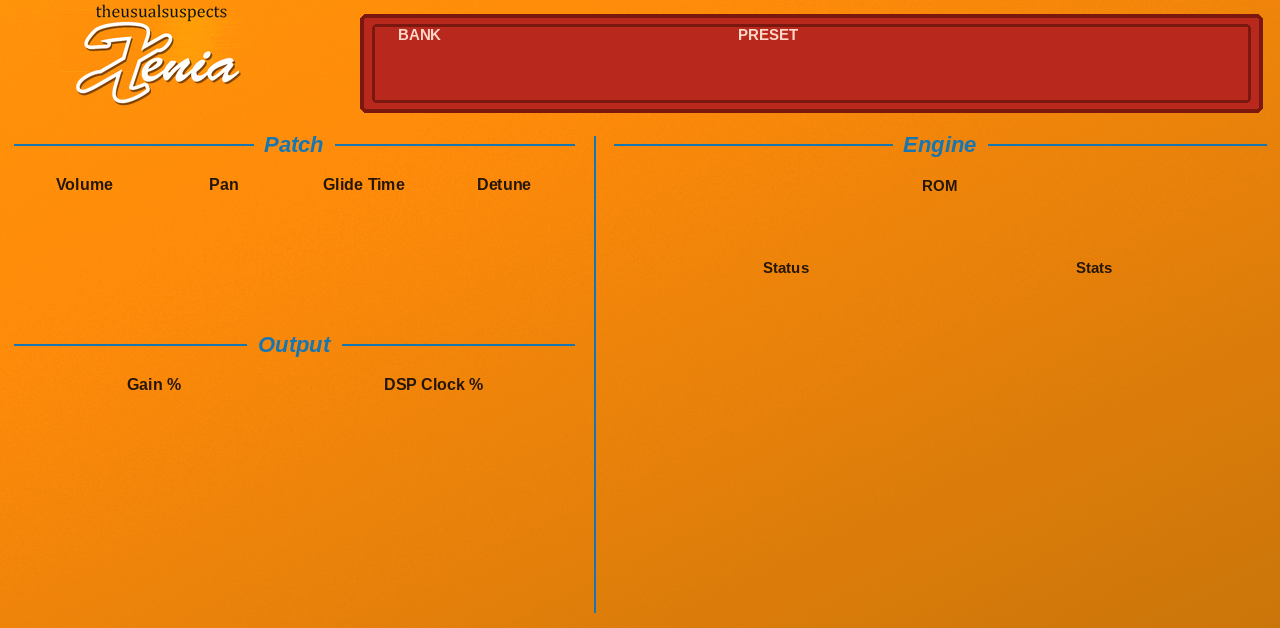
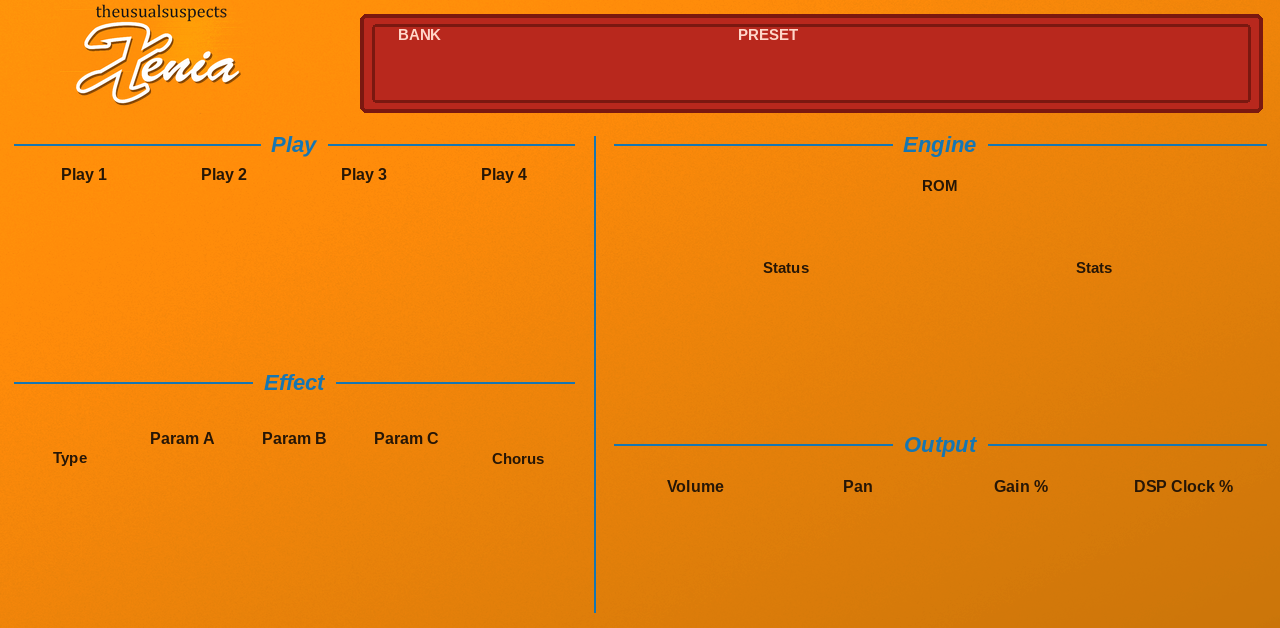
Skin: PLAY page with the four play knobs, effect and output; Amp Envelope beside the Filter Envelope; Arpeggiator folded into MIX & ARP (10 tabs); Q-Link sets regrouped, spacing refined
Claude-Session: https://claude.ai/code/session_01NnBRfCftY3vdpsy8azUhpq

diff --git a/tools/make_skin.py b/tools/make_skin.py
@@ -173,19 +173,24 @@ def header(page, tab_title):
 
 
 # ---------------------------------------------------------------- PLAY
-p = Page("PLAY", ["preset", "bank_index", "-", "-", "AmpVolume", "Pan", "GlideTime", "Detune", "gain", "dsp_clock", "-", "-"])
+p = Page("PLAY", ["play_v1", "play_v2", "play_v3", "play_v4", "AmpVolume", "Pan", "gain", "dsp_clock", "EffectParamA", "EffectParamB", "EffectParamC", "-"])
 header(p, "PLAY")
-p.heading(14, 130, 560, "Patch")
-row(p, 14, 574, 232, [("knob", "AmpVolume", "Volume"), ("knob", "Pan", "Pan"), ("knob", "GlideTime", "Glide Time"), ("knob", "Detune", "Detune")])
-p.heading(14, 330, 560, "Output")
-row(p, 14, 574, 432, [("knob", "gain", "Gain %"), ("knob", "dsp_clock", "DSP Clock %")])
+p.heading(14, 130, 560, "Play")
+for n, cx in enumerate((84, 224, 364, 504), 1):
+    p.knob(cx, 222, "play_v%d" % n, "Play %d" % n)
+    p.popup(cx, 320, "play%d" % n, "", 126)
+p.heading(14, 368, 560, "Effect")
+row(p, 14, 574, 486, [("popup", "EffectType", "Type", 110), ("knob", "EffectParamA", "Param A"), ("knob", "EffectParamB", "Param B"), ("knob", "EffectParamC", "Param C"),
+                      ("toggle", "ChorusEnabled", "Chorus")])
 p.vline(594, 136, 612)
 p.heading(614, 130, 652, "Engine")
 p.readout(940, 214, "rom_name", "ROM", 600)
 p.readout(786, 296, "loading_status", "Status", 296)
 p.readout(1094, 296, "engine_stats", "Stats", 296)
-p.button(786, 400, "all_notes_off", "PANIC")
-p.button(1094, 400, "init_patch", "INIT PATCH")
+p.button(786, 378, "all_notes_off", "PANIC")
+p.button(1094, 378, "init_patch", "INIT PATCH")
+p.heading(614, 430, 652, "Output")
+row(p, 614, 1266, 534, [("knob", "AmpVolume", "Volume"), ("knob", "Pan", "Pan"), ("knob", "gain", "Gain %"), ("knob", "dsp_clock", "DSP Clock %")])
 p.done()
 
 # ---------------------------------------------------------------- BANKS
@@ -222,10 +227,11 @@ row(p, 8, 1272, 500, [("popup", "Wave", "Wavetable", 260, 118), ("popup", "Alias
                       ("popup", "Clipping", "Clipping", 150), ("popup", "Accuracy", "Accuracy", 150)])
 p.done()
 
-# ---------------------------------------------------------------- MIXER / AMP
-p = Page("MIX & AMP", ["MixW1", "MixW2", "MixRingMod", "MixNoise", "MixExternal", "-", "-", "-",
-                       "AmpVolume", "AmpVelocity", "AmpKeytrack", "Pan", "PanKeytrack", "DePan", "-", "-"],
-         ("Env & Voice", ["AmpEnvAttack", "AmpEnvDecay", "AmpEnvSustain", "AmpEnvRelease", "GlideTime", "Detune", "-", "-"]))
+# ---------------------------------------------------------------- MIX & ARP (mixer, amplifier, glide, voice, arpeggiator)
+p = Page("MIX & ARP", ["MixW1", "MixW2", "MixRingMod", "MixNoise", "MixExternal", "AmpVolume", "AmpVelocity", "AmpKeytrack",
+                       "Pan", "PanKeytrack", "DePan", "-"],
+         ("Voice", ["GlideTime", "Detune", "-", "-"]),
+         ("Arp", ["ArpTempo", "ArpRange", "ArpUserPatternLength", "-"]))
 p.heading(8, 4, 626, "Mixer")
 row(p, 8, 634, 92, [("knob", "MixW1", "Wave 1"), ("knob", "MixW2", "Wave 2"), ("knob", "MixRingMod", "Ring Mod"), ("knob", "MixNoise", "Noise"), ("knob", "MixExternal", "Ext Input")])
 p.vline(646, 10, 400)
@@ -236,25 +242,31 @@ p.heading(8, 190, 626, "Glide")
 row(p, 8, 634, 278, [("toggle", "GlideEnabled", "Glide"), ("popup", "GlideType", "Type", 130), ("popup", "GlideMode", "Mode", 130), ("knob", "GlideTime", "Time")])
 p.heading(658, 190, 614, "Voice")
 row(p, 658, 1272, 278, [("popup", "AllocationMode", "Allocation", 130), ("popup", "Assignment", "Assignment", 130), ("knob", "Detune", "Detune")])
-p.heading(8, 380, 1264, "Amp Envelope")
-row(p, 8, 1272, 490, [("popup", "AmpEnvTrigger", "Trigger", 150), ("knob", "AmpEnvAttack", "Attack"), ("knob", "AmpEnvDecay", "Decay"), ("knob", "AmpEnvSustain", "Sustain"),
-                      ("knob", "AmpEnvRelease", "Release")])
+p.heading(8, 380, 1264, "Arpeggiator")
+row(p, 8, 1272, 490, [("popup", "ArpMode", "Mode", 112), ("popup", "ArpClock", "Clock", 112), ("popup", "ArpPattern", "Pattern", 112), ("popup", "ArpDirection", "Direction", 112),
+                      ("popup", "ArpNoteOrder", "Note Order", 112), ("popup", "ArpVelocity", "Velocity", 112), ("knob", "ArpTempo", "Tempo"), ("knob", "ArpRange", "Range"),
+                      ("knob", "ArpUserPatternLength", "User Length"), ("toggle", "ArpReset", "Reset")])
 p.done()
 
 # ---------------------------------------------------------------- FILTER
 p = Page("FILTER", ["F1Cutoff", "F1Resonance", "F1KeyTrack", "F1EnvAmount", "F1EnvVelAmount", "F1Extra", "-", "-", "F2Cutoff", "F2KeyTrack", "-", "-",
-                    "F1EnvAttack", "F1EnvDecay", "F1EnvSustain", "F1EnvRelease"])
+                    "F1EnvAttack", "F1EnvDecay", "F1EnvSustain", "F1EnvRelease"],
+         ("Amp Env", ["AmpEnvAttack", "AmpEnvDecay", "AmpEnvSustain", "AmpEnvRelease"]))
 p.heading(8, 4, 904, "Filter 1")
 row(p, 8, 912, 190, [("knob", "F1Cutoff", "Cutoff"), ("knob", "F1Resonance", "Resonance"), ("knob", "F1KeyTrack", "Keytrack"), ("knob", "F1EnvAmount", "Env Amt"),
                      ("knob", "F1EnvVelAmount", "Vel Amt"), ("knob", "F1Extra", "Extra")])
 p.popup(460, 76, "F1Type", "Type 1", 330)
-p.vline(930, 10, 410)
+p.vline(930, 10, 296)
 p.heading(948, 4, 324, "Filter 2")
 p.popup(1110, 76, "F2Type", "Type 2", 250)
 row(p, 948, 1272, 190, [("knob", "F2Cutoff", "Cutoff"), ("knob", "F2KeyTrack", "Keytrack")])
-p.heading(8, 300, 1264, "Filter Envelope")
-row(p, 8, 1272, 420, [("popup", "F1EnvTrigger", "Trigger", 150), ("knob", "F1EnvAttack", "Attack"), ("knob", "F1EnvDecay", "Decay"), ("knob", "F1EnvSustain", "Sustain"),
-                      ("knob", "F1EnvRelease", "Release")])
+p.heading(8, 340, 624, "Filter Envelope")
+row(p, 8, 632, 470, [("popup", "F1EnvTrigger", "Trigger", 100), ("knob", "F1EnvAttack", "Attack"), ("knob", "F1EnvDecay", "Decay"), ("knob", "F1EnvSustain", "Sustain"),
+                     ("knob", "F1EnvRelease", "Release")])
+p.vline(640, 346, 612)
+p.heading(648, 340, 624, "Amp Envelope")
+row(p, 648, 1272, 470, [("popup", "AmpEnvTrigger", "Trigger", 100), ("knob", "AmpEnvAttack", "Attack"), ("knob", "AmpEnvDecay", "Decay"), ("knob", "AmpEnvSustain", "Sustain"),
+                        ("knob", "AmpEnvRelease", "Release")])
 p.done()
 
 # ---------------------------------------------------------------- ENV
@@ -275,16 +287,16 @@ p.done()
 p = Page("WAVE ENV", ["WaveEnvTime1", "WaveEnvLevel1", "WaveEnvTime2", "WaveEnvLevel2", "WaveEnvTime3", "WaveEnvLevel3", "WaveEnvTime4", "WaveEnvLevel4",
                       "WaveEnvTime5", "WaveEnvLevel5", "WaveEnvTime6", "WaveEnvLevel6", "WaveEnvTime7", "WaveEnvLevel7", "WaveEnvTime8", "WaveEnvLevel8"])
 p.heading(8, 4, 1264, "Wave Envelope")
-row(p, 8, 1272, 100, [("knob", "WaveEnvTime%d" % i, "Time %d" % i) for i in range(1, 9)])
-row(p, 8, 1272, 236, [("knob", "WaveEnvLevel%d" % i, "Level %d" % i) for i in range(1, 9)])
-p.heading(8, 340, 1264, "Loops")
-row(p, 8, 1272, 460, [("popup", "WaveEnvTrigger", "Trigger", 140), ("toggle", "WaveKeyOnLoop", "Key On Loop"), ("popup", "WaveKeyOnLoopStart", "Start", 90),
+row(p, 8, 1272, 108, [("knob", "WaveEnvTime%d" % i, "Time %d" % i) for i in range(1, 9)])
+row(p, 8, 1272, 252, [("knob", "WaveEnvLevel%d" % i, "Level %d" % i) for i in range(1, 9)])
+p.heading(8, 380, 1264, "Loops")
+row(p, 8, 1272, 500, [("popup", "WaveEnvTrigger", "Trigger", 140), ("toggle", "WaveKeyOnLoop", "Key On Loop"), ("popup", "WaveKeyOnLoopStart", "Start", 90),
                       ("popup", "WaveKeyOnLoopEnd", "End", 90), ("toggle", "WaveKeyOffLoop", "Key Off Loop"), ("popup", "WaveKeyOffLoopStart", "Start", 90),
                       ("popup", "WaveKeyOffLoopEnd", "End", 90)])
 p.done()
 
 # ---------------------------------------------------------------- MOD
-p = Page("MOD", ["Mod1Parameter", "Mod2Parameter", "-", "-", "Mod3Parameter", "Mod4Parameter", "-", "-", "ModDelayTime"])
+p = Page("MOD", ["Mod1Parameter", "Mod2Parameter", "Mod3Parameter", "Mod4Parameter", "ModDelayTime", "-", "-", "-"])
 for n in range(1, 5):
     x0 = 8 + ((n - 1) % 2) * 640
     y = 4 + ((n - 1) // 2) * 200
@@ -316,17 +328,6 @@ def slots(name, first):
 
 slots("SLOTS 1-8", 1)
 slots("SLOTS 9-16", 9)
-
-# ---------------------------------------------------------------- ARP
-p = Page("ARP & FX", ["ArpTempo", "ArpRange", "ArpUserPatternLength", "-", "EffectParamA", "EffectParamB", "EffectParamC", "-"])
-p.heading(8, 4, 1264, "Arpeggiator")
-row(p, 8, 1272, 92, [("popup", "ArpMode", "Mode", 130), ("popup", "ArpClock", "Clock", 130), ("popup", "ArpPattern", "Pattern", 130), ("popup", "ArpDirection", "Direction", 130),
-                     ("popup", "ArpNoteOrder", "Note Order", 150), ("popup", "ArpVelocity", "Velocity", 130)])
-row(p, 8, 1272, 232, [("knob", "ArpTempo", "Tempo"), ("knob", "ArpRange", "Range"), ("knob", "ArpUserPatternLength", "User Length"), ("toggle", "ArpReset", "Reset")])
-p.heading(8, 330, 1264, "Effect")
-row(p, 8, 1272, 450, [("popup", "EffectType", "Effect Type", 220), ("knob", "EffectParamA", "Param A"), ("knob", "EffectParamB", "Param B"), ("knob", "EffectParamC", "Param C"),
-                      ("toggle", "ChorusEnabled", "Chorus")])
-p.done()
 
 open(os.path.join(OUT, "layout.conf"), "w").write("\n".join(lines) + "\n")
 print("layout.conf: %d lines" % len(lines))
